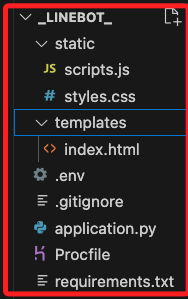
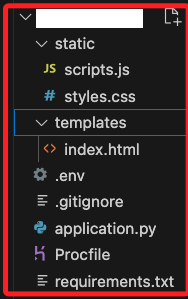
Commit on 2024-11-17 15:32:06

Changed region(s): [[0.1862, 0.0301, 0.7713, 0.1204]]

diff --git a/01_課程筆記/1114_B08/01_Beanstalk/04_部署 LineBot.md b/01_課程筆記/1114_B08/01_Beanstalk/04_部署 LineBot.md
@@ -16,7 +16,7 @@ _在進行接下來步驟前，先檢查端口佔用情形，確認 Ngrok 將使
 
 <br>
 
-2. 其中 `ControlCe (Control Center)` 是 macOS 系統的「控制中心（Control Center）」，與 AirDrop、音量控制、Wi-Fi、藍牙等功能相關；另外 `Google` 代表可能正在與本地設備或遠程設備進行網絡通信，在這是因為 NAS 佔用了 `5000`。
+2. 其中 `ControlCe (Control Center)` 是 macOS 系統的 `控制中心（Control Center）`，與 `AirDrop`、音量控制、Wi-Fi、藍牙等功能相關；另外 `Google` 代表可能正在與本地設備或遠程設備進行網絡通信，在這是因為 NAS 佔用了 `5000`；這在之前的專案中不受影響是因為單純在本地運行，接下來要使用 `ngrok`，所以必須確認端口閒置。
 
     ![](images/img_48.png)
 
@@ -24,7 +24,7 @@ _在進行接下來步驟前，先檢查端口佔用情形，確認 Ngrok 將使
 
 ## 編輯腳本
 
-_基礎範例_
+_基礎範例，使用以下代碼覆蓋原本內容即可_
 
 <br>
 
@@ -116,6 +116,16 @@ _基礎範例_
         # 判斷端口，Beanstalk 環境使用環境變數 `PORT`，本地環境使用 5050
         port = int(os.getenv("PORT", 5050)) if is_beanstalk else 5050
         application.run(debug=not is_beanstalk, port=port)
+    ```
+
+<br>
+
+2. 修正 `requirements.txt` 內容如下。
+
+    ```json
+    Flask
+    gunicorn
+    line-bot-sdk==3.0.0
     ```
 
 <br>

diff --git a/01_課程筆記/1114_B08/01_Beanstalk/03_即時監聽.md b/01_課程筆記/1114_B08/01_Beanstalk/03_即時監聽.md
@@ -10,10 +10,10 @@ _開啟終端機執行_
 
 <br>
 
-1. 建立專案結構，專案資料夾命名為 `_linebot_`，同時啟動 VSCode；資料夾結構如下。
+1. 建立專案結構，專案資料夾命名為 `_firebaseDB_`，同時啟動 VSCode；資料夾結構如下。
 
     ```bash
-    mkdir -p ~/Downloads/_linebot_ && cd ~/Downloads/_linebot_
+    mkdir -p ~/Downloads/_firebaseDB_ && cd ~/Downloads/_firebaseDB_
     mkdir static templates
     touch .env .gitignore application.py requirements.txt Procfile
     touch static/scripts.js static/styles.css
@@ -185,7 +185,7 @@ _開啟終端機執行_
 
     @application.route("/")
     def home():
-        # 從 .env 獲取 Firebase 配置
+        # 從 .env 取得 Firebase 配置
         firebase_config = {
             "apiKey": os.getenv("FIREBASE_API_KEY"),
             "authDomain": os.getenv("FIREBASE_AUTH_DOMAIN"),
@@ -199,7 +199,9 @@ _開啟終端機執行_
         # 確認所有必要的參數是否正確
         for key, value in firebase_config.items():
             if not value:
-                raise ValueError(f"Firebase 配置項 `{key}` 缺失，請檢查 .env 文件。")
+                raise ValueError(
+                    f"Firebase 配置項 `{key}` 缺失，請檢查 .env 文件。"
+                )
 
         return render_template("index.html", **firebase_config)
 
